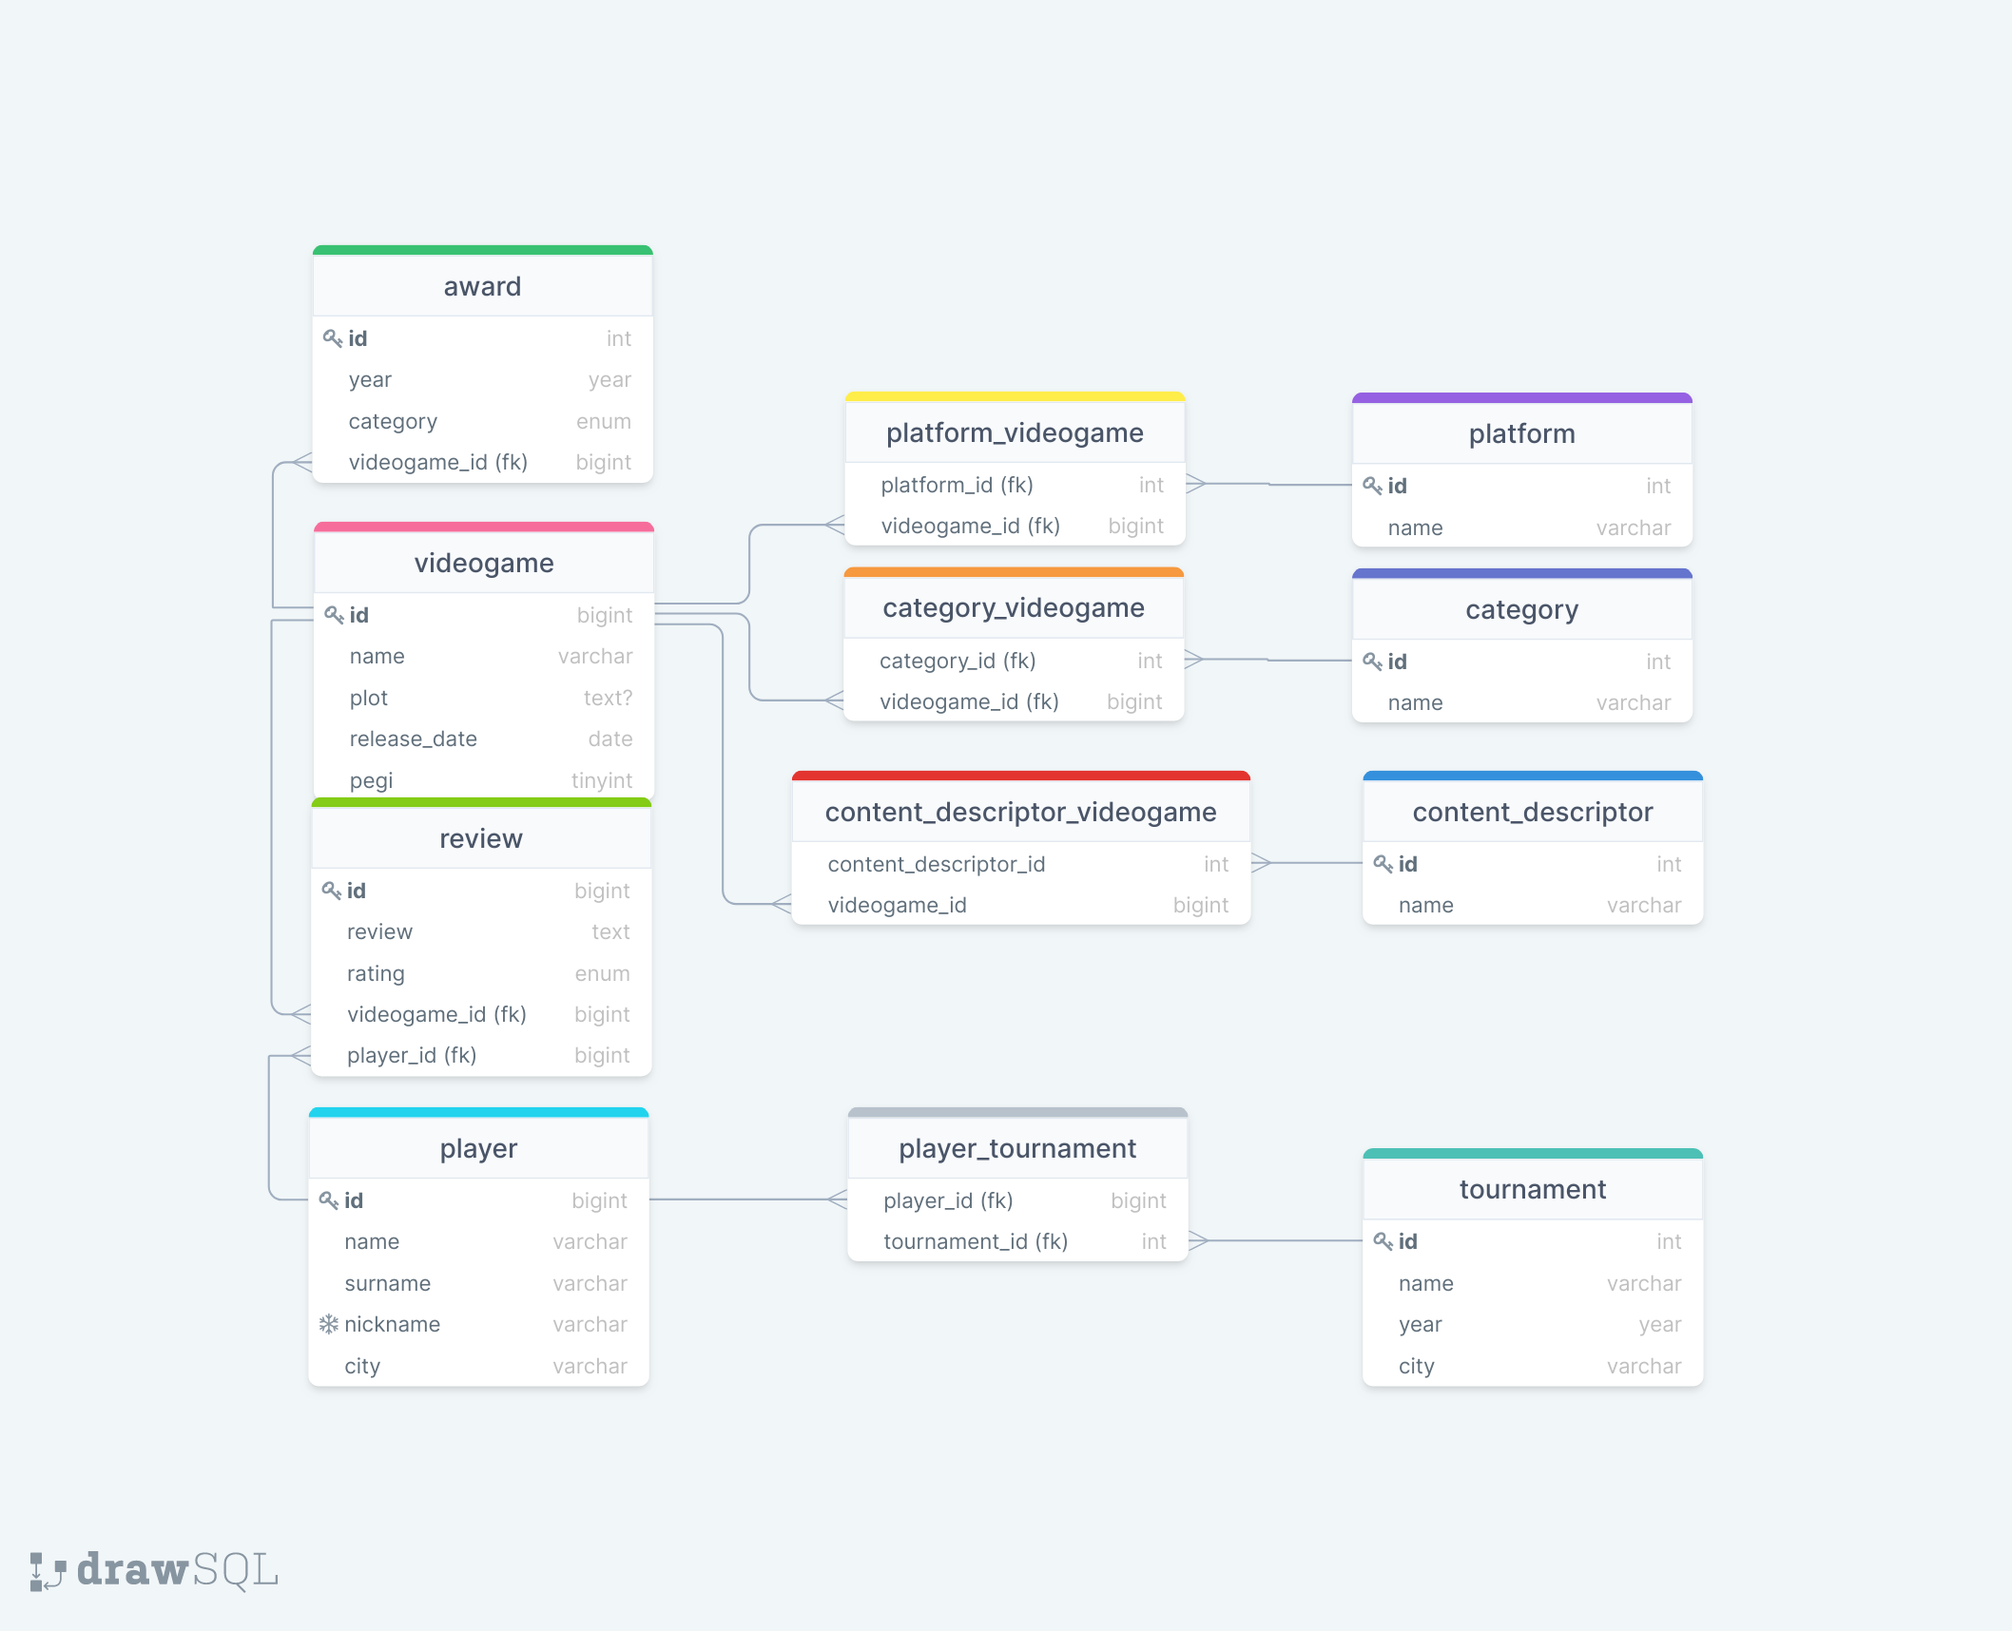
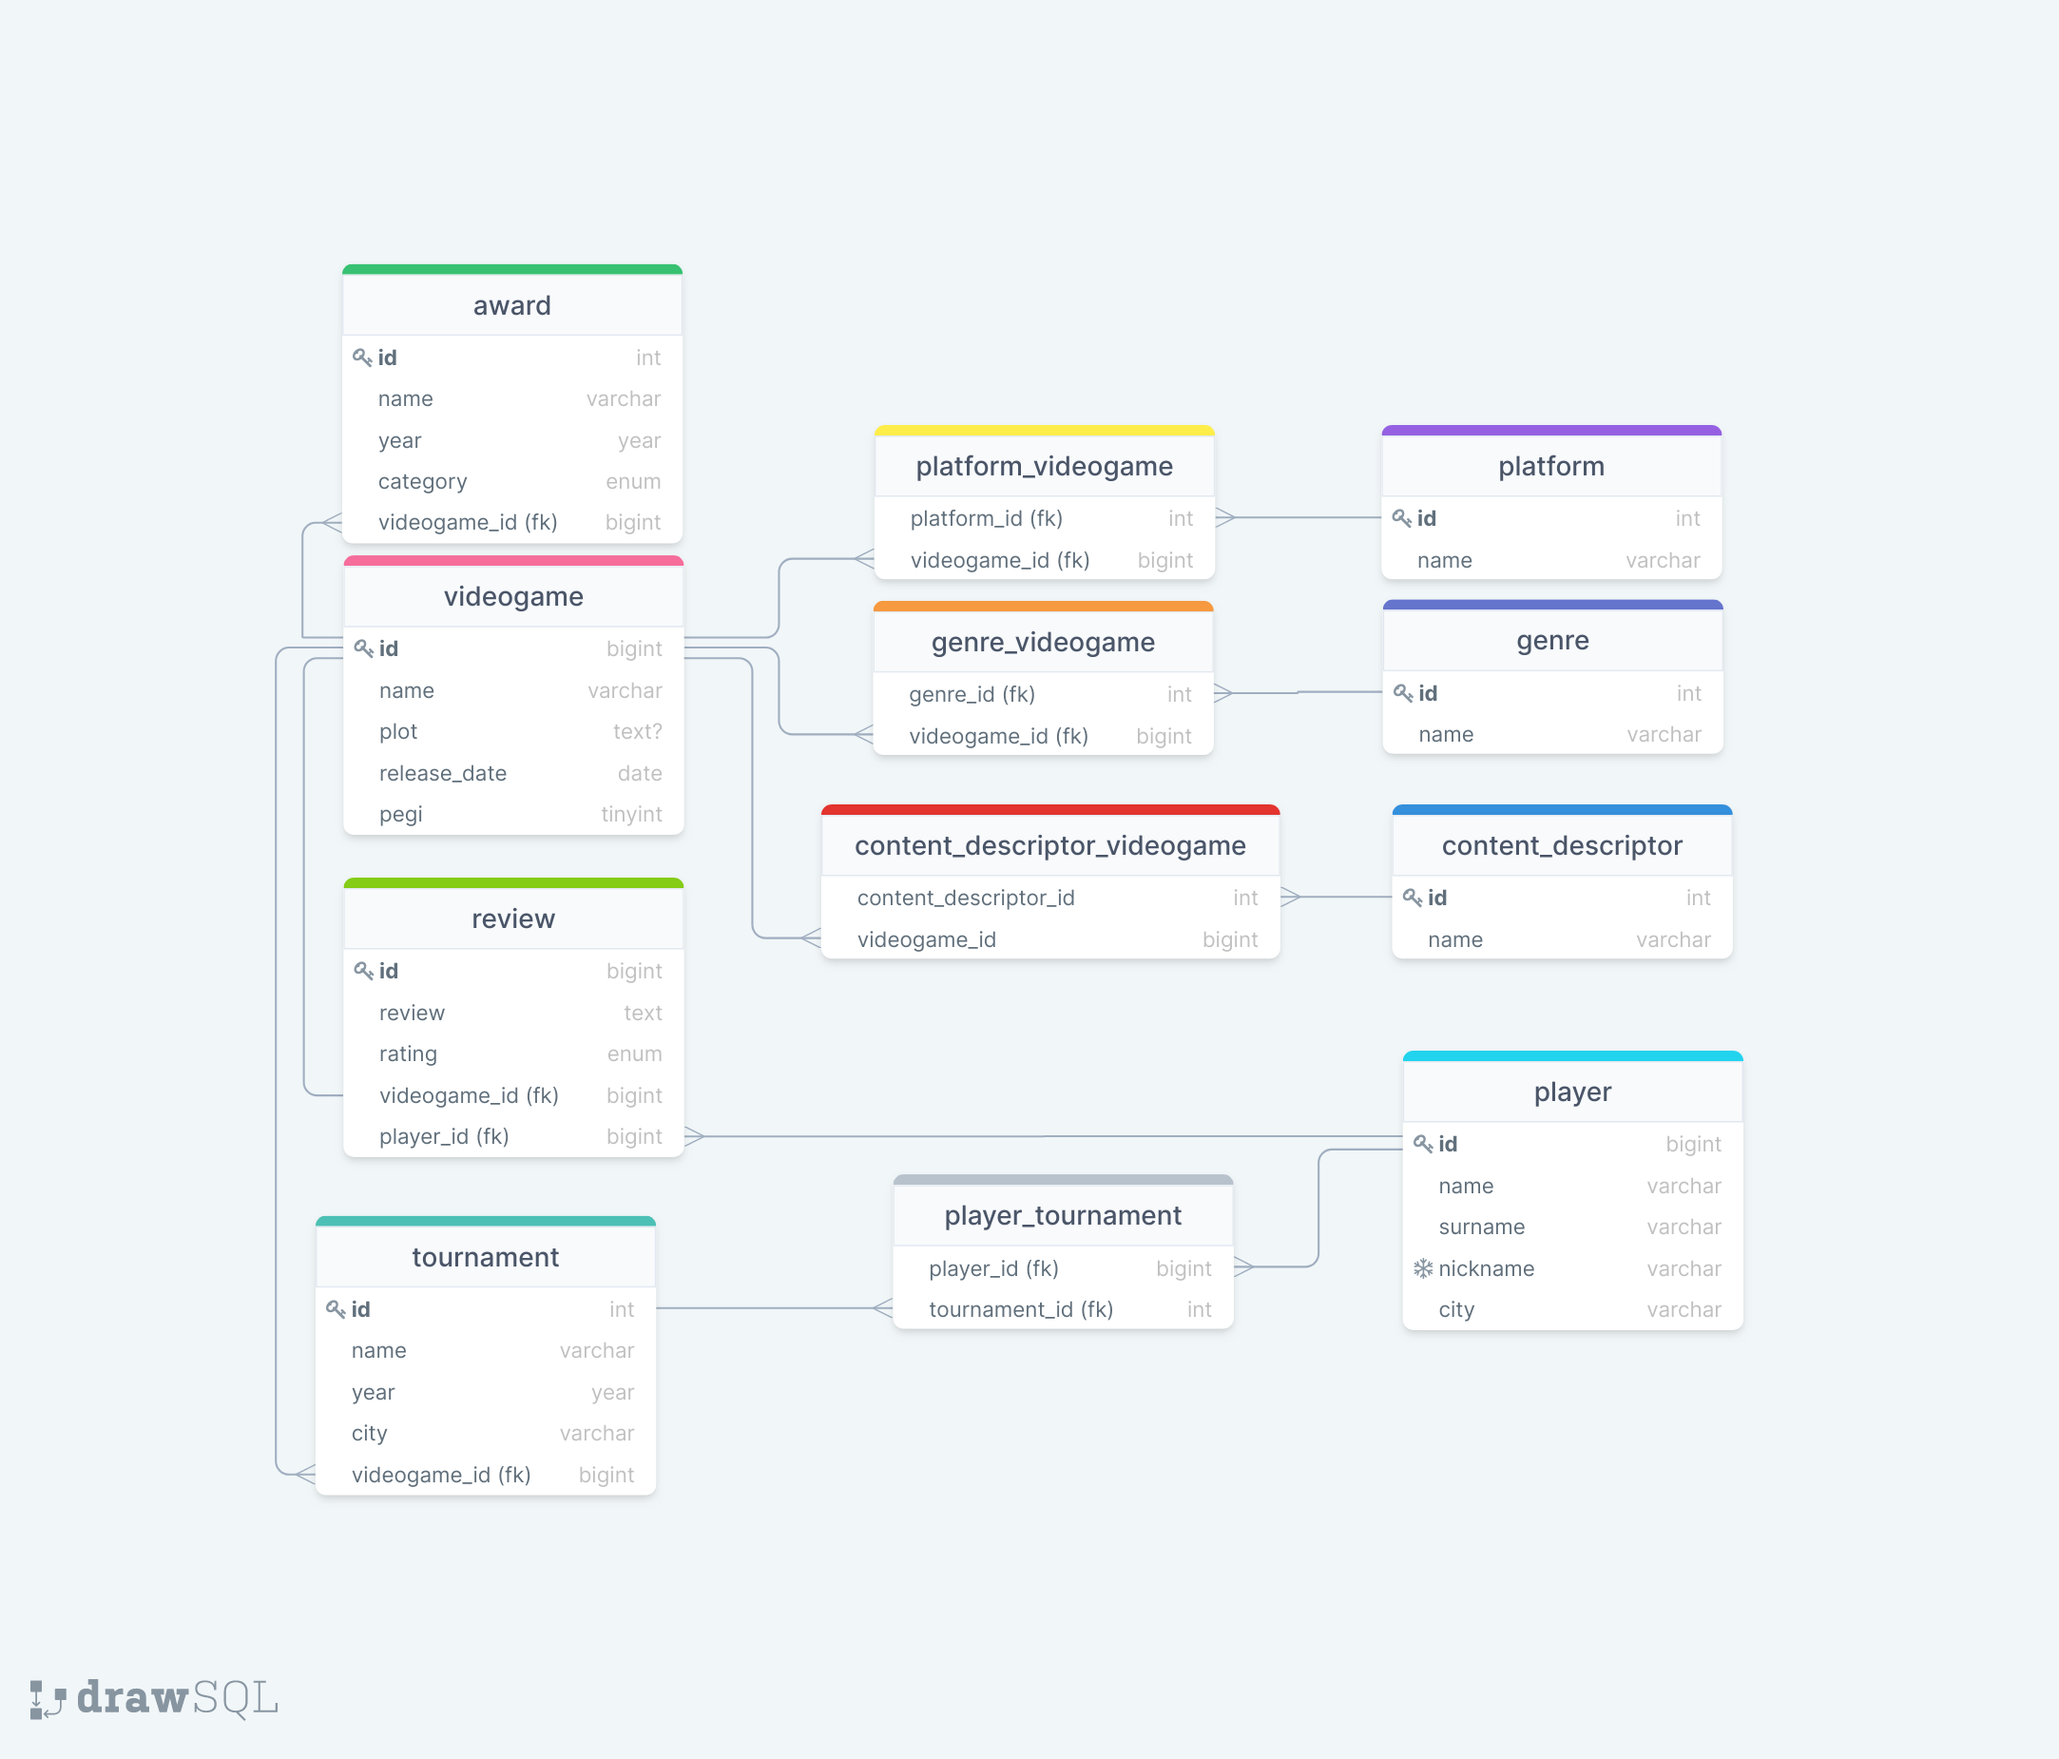
Finish readme, update .png

diff --git a/README.md b/README.md
@@ -3,25 +3,57 @@
 ![alt](db-videogames.png)
 
 Table videogame:
-- id: bigint, unsigned, **primary key**
-- name: varchar(200), not null
-- plot: text
-- release_date: date, not null
-- pegi: tinyint, unsigned, not null
+- **id**: bigint, unsigned, not null, autoincrement, unique, **primary key**
+- **name**: varchar(200), not null
+- **plot**: text
+- **release_date**: date, not null
+- **pegi**: tinyint, unsigned, not null
 
 Table platform:
-- id: bigint, unsigned, **primary key**
-- name: varchar(50), not null
+- **id**: bigint, unsigned, not null, autoincrement, unique, **primary key**
+- **name**: varchar(50), not null
 
 Pivot table videogame_platform:
-- videogame_id: bigint, unsigned, not null, **foreign key**
-- platform_id: bigint, unsigned, not null, **foreign key**
+- **videogame_id**: bigint, unsigned, not null, **foreign key**
+- **platform_id**: bigint, unsigned, not null, **foreign key**
 
-Table category:
-- id: bigint, unsigned, **primary key**
-- name: varchar(50), not null
+Table genre:
+- **id**: bigint, unsigned, not null, autoincrement, unique, **primary key**
+- **name**: varchar(50), not null
 
-Pivot table videogame_category:
-- videogame_id: bigint, unsigned, not null, **foreign key**
-- category_id: bigint, unsigned, not null, **foreign key**
+Pivot table genre_videogame:
+- **videogame_id**: bigint, unsigned, not null, **foreign key**
+- **genre_id**: bigint, unsigned, not null, **foreign key**
 
+content_descriptor:
+- **id**: bigint, unsigned, not null, autoincrement, unique, **primary key**
+- **name**: varchar(60), not null
+
+Pivot table videogame_content_descriptor:
+- **videogame_id**: bigint, unsigned, not null, **foreign key**
+- **content_descriptor_id**: bigint, unsigned, not null, **foreign key**
+
+Table award:
+- **id**: bigint, unsigned, not null, autoincrement, unique, **primary key**
+- **name**: varchar(50), not null
+- **year**: year, not null
+- **category**: varchar(50), not null
+- **videogame_id**: bigint, unsigned, not null, **foreign key**
+
+Table tournament:
+- **id**: bigint, unsigned, not null, autoincrement, unique, **primary key**
+- **name**: varchar(50), not null
+- **year**: year, not null
+- **city**: varchar(50), not null
+- **videogame_id**: bigint, unsigned, not null, **foreign key**
+
+Table player:
+- **id**: bigint, unsigned, not null, autoincrement, unique, **primary key**
+- **name**: varchar(50), not null
+- **surname**: varchar(50), not null
+- **nickname**: varchar(50), not null, unique
+- **city**: varchar(50), not null
+
+Pivot table player_tournament:
+- **player_id**: bigint, unsigned, not null, **foreign key**
+- **tournament_id**: bigint, unsigned, not null, **foreign key**
